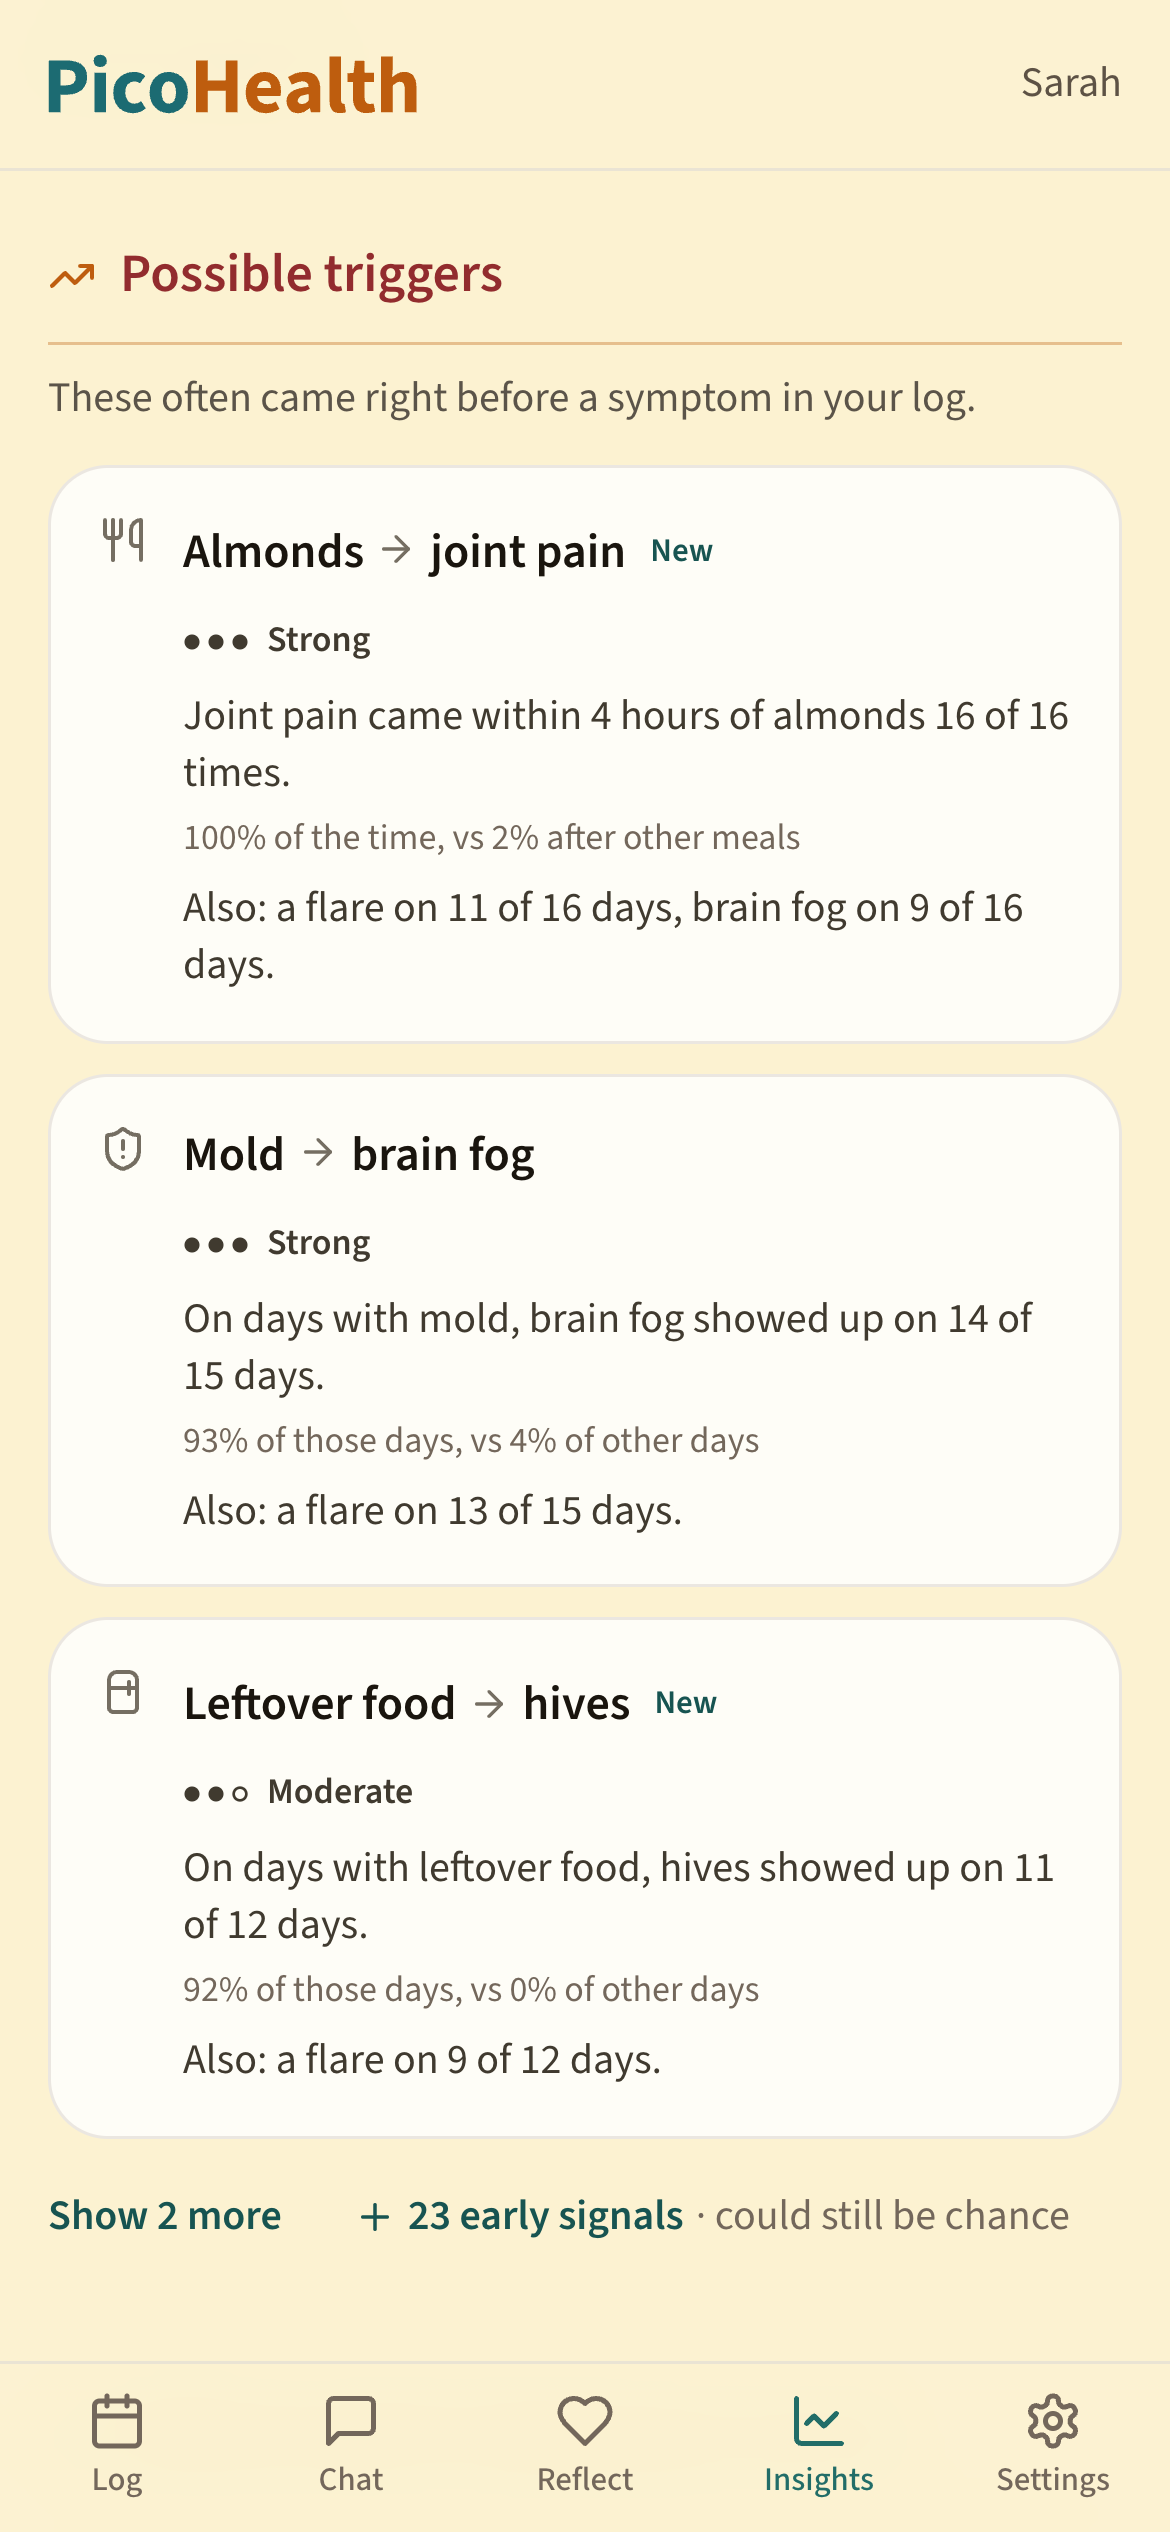
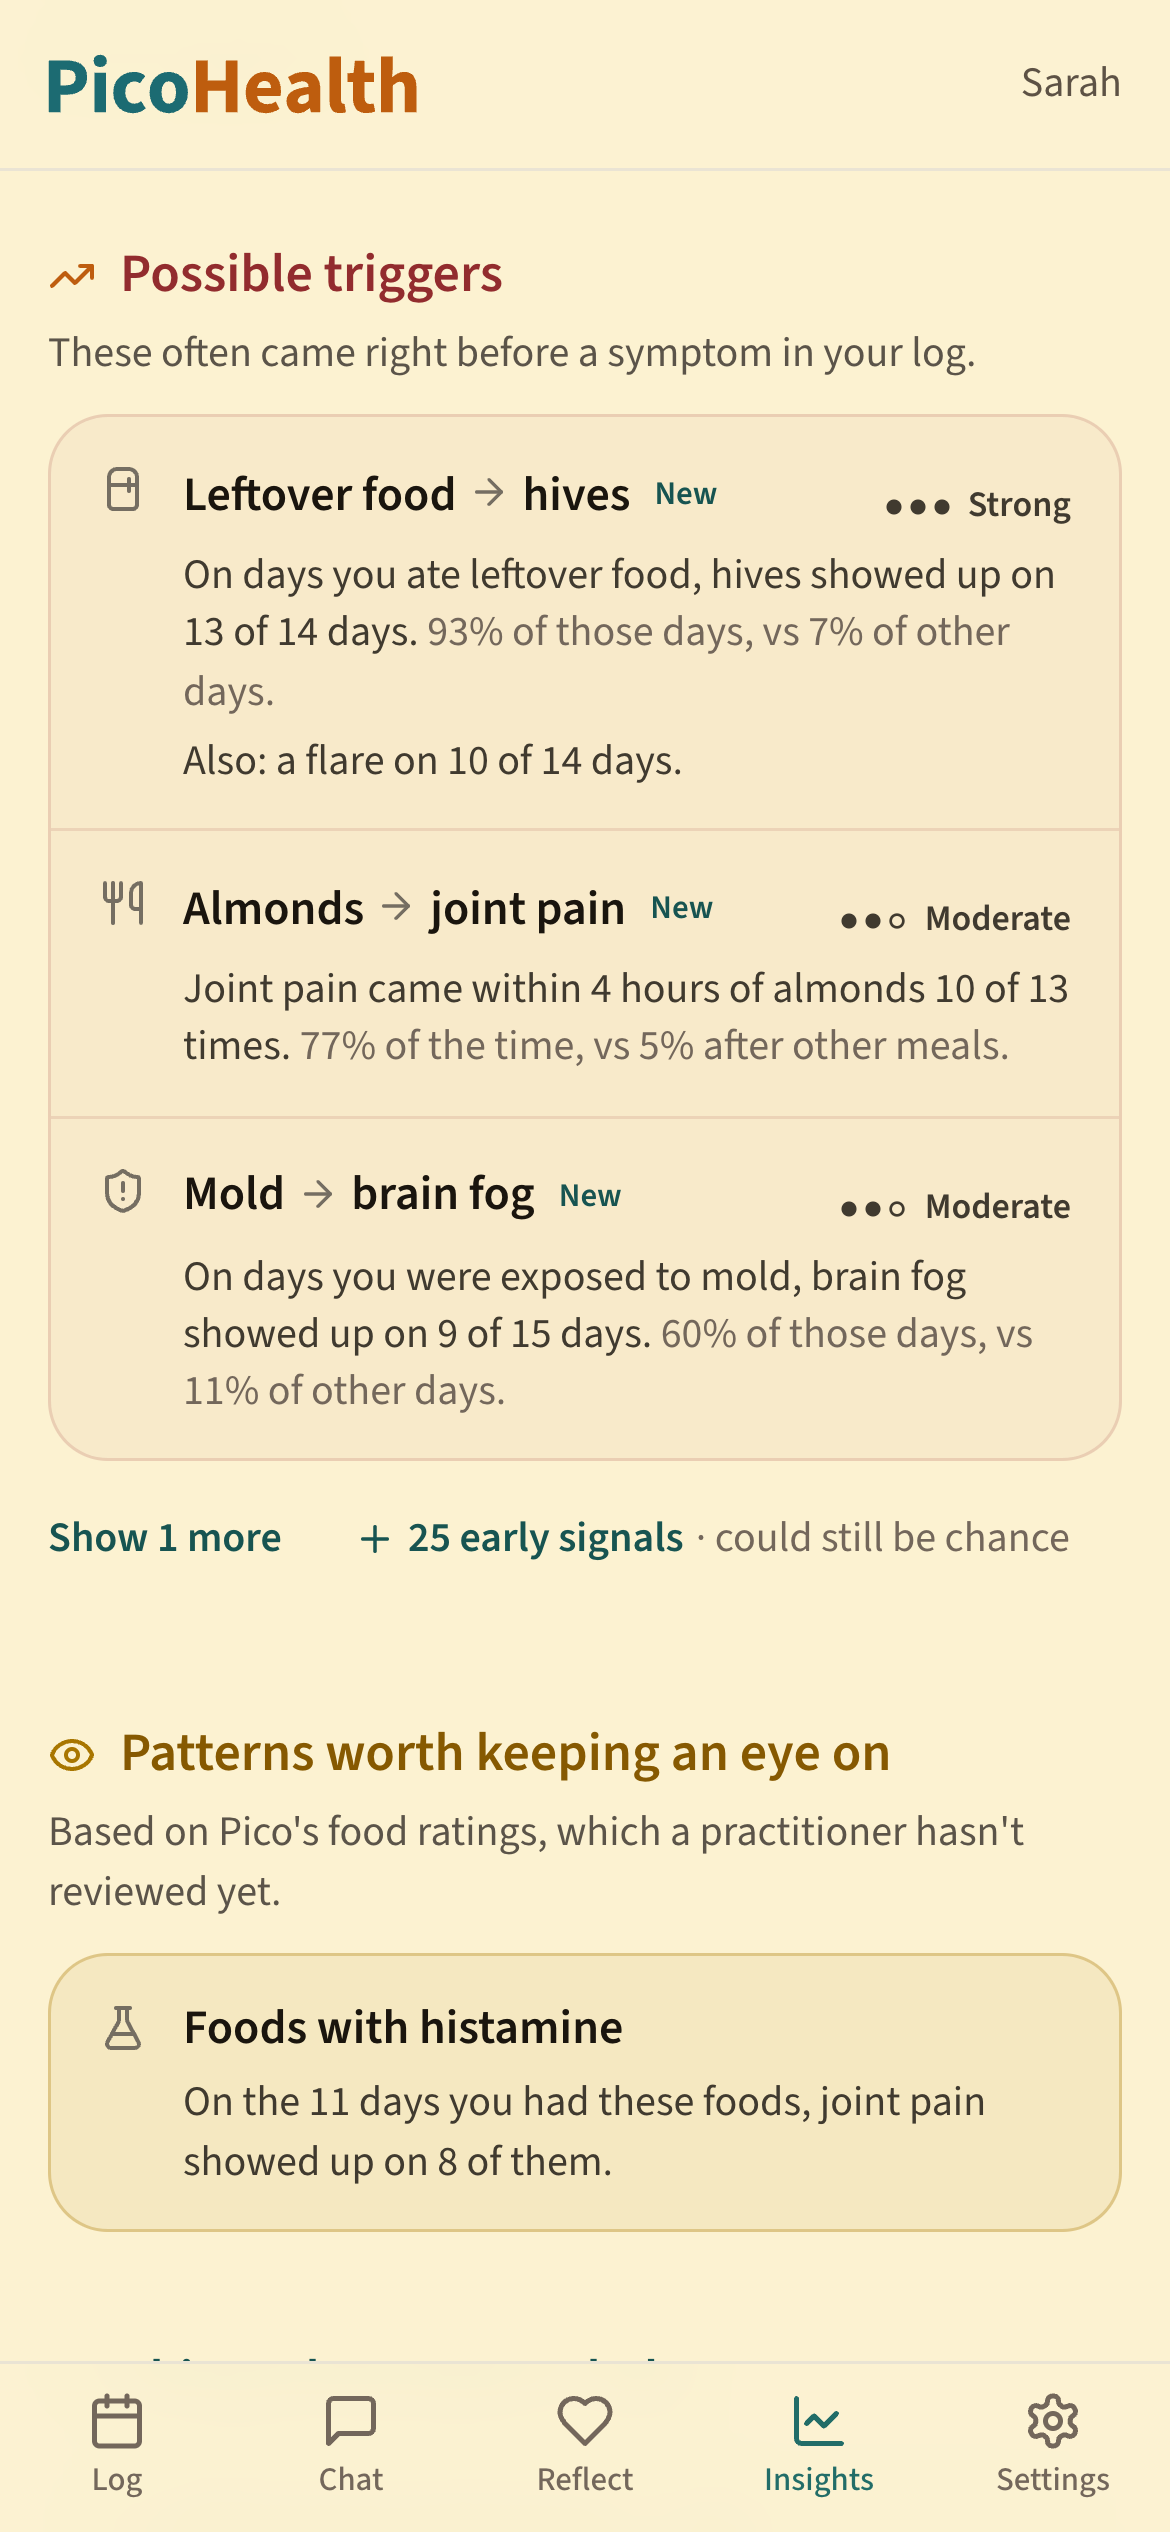
chore(review): final screens and PDF panels on the re-seeded demo; showcase lunch fixed

diff --git a/.impeccable/review-2026-11/pdf-panels.html b/.impeccable/review-2026-11/pdf-panels.html
@@ -1,0 +1,12 @@
+<!doctype html><meta charset="utf-8">
+<link rel="stylesheet" href="https://fonts.googleapis.com/css2?family=Source+Sans+3:wght@400;600&display=swap">
+<style>
+body{margin:0;background:transparent;font-family:"Source Sans 3",system-ui,sans-serif}
+.card{width:409px;height:597px;box-sizing:border-box;border:1.5px solid #E2D6BC;border-radius:16px;background:#FCF2D1;overflow:hidden;display:flex;flex-direction:column;margin:0 0 20px}
+.card img{display:block;width:100%;height:auto}
+.cap{margin-top:auto;padding:0 18px 16px;color:#5D5244;font-size:14.5px;line-height:1.35}
+.cap b{color:#271F15;font-weight:600}
+</style>
+<div class="card" id="a"><img src="../final2n/pdf-a-triggers.png"><p class="cap"><b>Leftovers, not the food.</b> Hives on 13 of 14 leftover days.</p></div>
+<div class="card" id="b"><img src="../final2n/pdf-b-watch-help.png"><p class="cap"><b>What to watch, and what helps.</b> Counted from her own days.</p></div>
+<div class="card" id="c"><img src="../final2n/pdf-c-log.png"><p class="cap"><b>The day it happened.</b> Leftover lunch at 12:41, hives at 3:09.</p></div>
